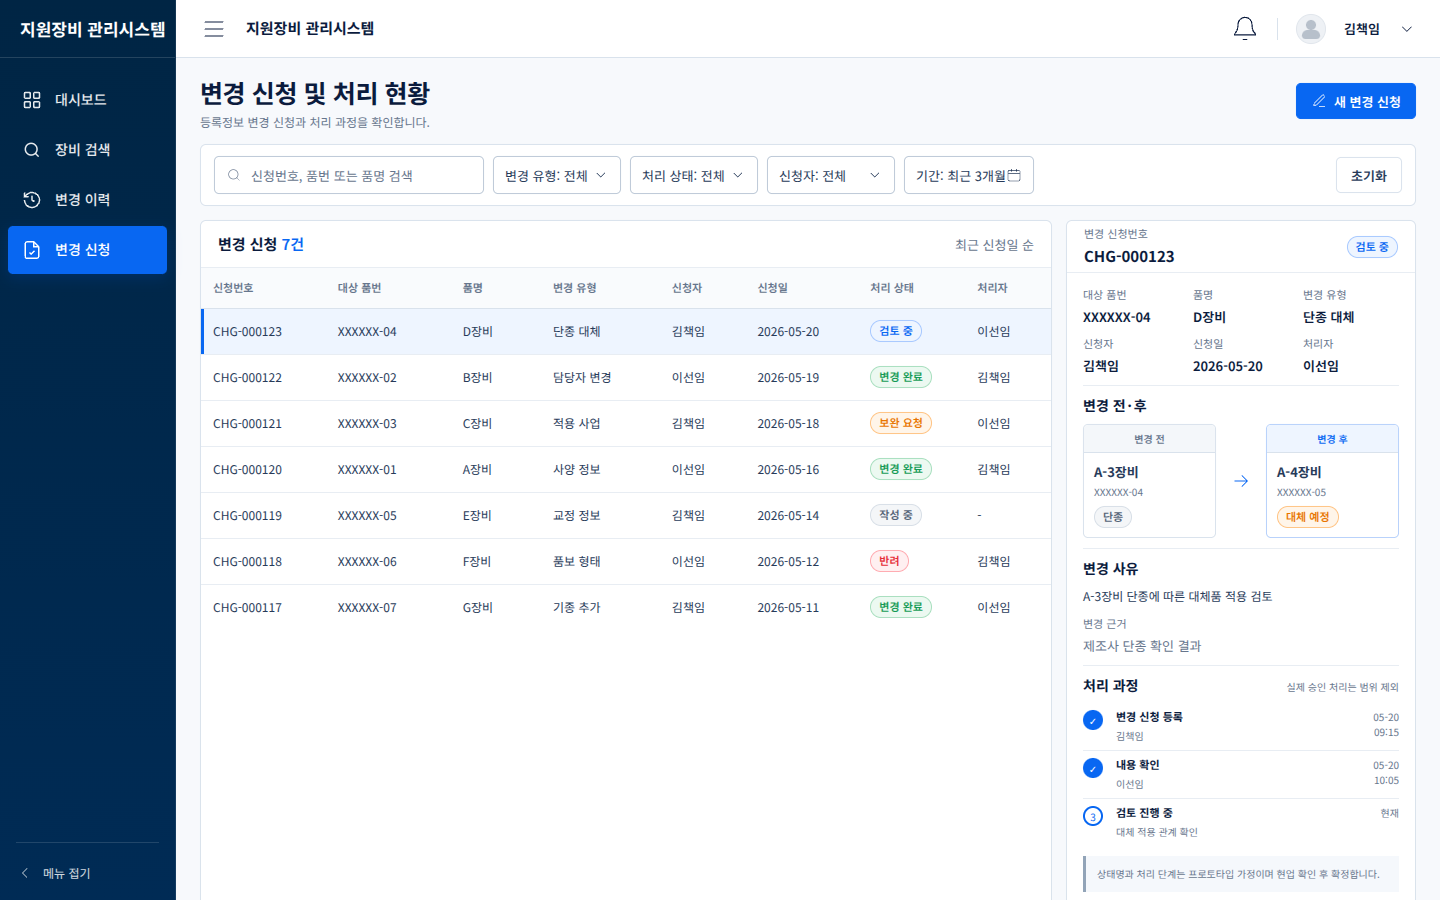
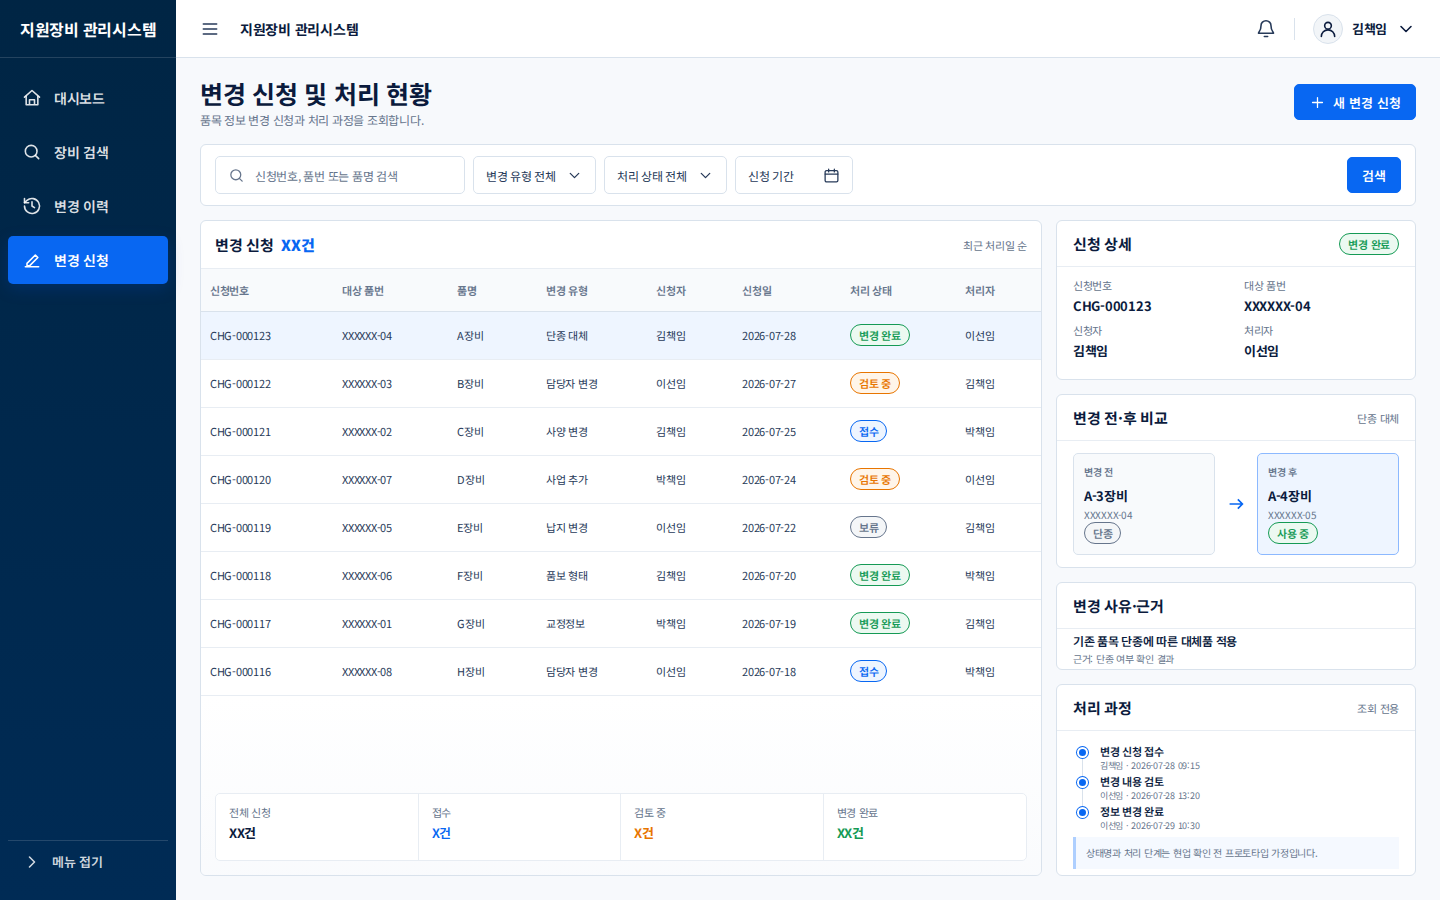
디자인: 추가 화면 정렬 및 영역 오류 수정

diff --git a/docs/design/mockup-qa.md b/docs/design/mockup-qa.md
@@ -1,16 +1,22 @@
-# 추가 정적 시안 검수 결과
+# 추가 정적 시안 재검수 결과
+
+> 2026-07-31 재검수: 기존 문서에는 세 화면이 통과한 것으로 기록돼 있었으나,
+> 실제 원본 이미지를 다시 확인한 결과 정렬 불균형과 내부 잘림이 발견됐다.
+> 기존 판정을 철회하고 정적 렌더러 재구성, 재렌더링, 육안 검수 및 DOM
+> 오버플로 검사를 수행한 결과를 아래에 기록한다.
 
 ## 1. 검수 대상
 
 | 화면 | 파일 | 최종 해상도 | 결과 |
 |---|---|---|---|
-| 장비 통합 상세 | `docs/mockups/extended/equipment-detail.png` | 1440×900 | 통과 |
-| 납품 일정 관리 | `docs/mockups/extended/delivery-schedule.png` | 1440×900 | 통과 |
-| 변경 신청 및 처리 현황 | `docs/mockups/extended/change-request.png` | 1440×900 | 통과 |
+| 장비 통합 상세 | `docs/mockups/extended/equipment-detail.png` | 1440×900 | 재검수 통과 |
+| 납품 일정 관리 | `docs/mockups/extended/delivery-schedule.png` | 1440×900 | 재검수 통과 |
+| 변경 신청 및 처리 현황 | `docs/mockups/extended/change-request.png` | 1440×900 | 재검수 통과 |
 
 ## 2. 제작 방식
 
-- 동일한 HTML·CSS 정적 렌더러와 디자인 토큰으로 세 화면을 제작했다.
+- 재현 가능한 정적 렌더러를 `tools/mockup-renderer/`에 추가하고 동일한
+  HTML·CSS 디자인 토큰으로 세 화면을 다시 제작했다.
 - 실제 React 애플리케이션 코드는 구현하지 않았다.
 - `Noto Sans KR Variable`을 렌더링 전용 한글 글꼴로 사용했다.
 - 아이콘은 Lucide 계열의 선형 SVG 스타일로 통일했다.
@@ -28,7 +34,8 @@
 | 메뉴 구성 | 대시보드, 장비 검색, 변경 이력, 변경 신청 |
 | 선택 메뉴 | 화면의 진입 맥락에 맞는 메뉴만 파란색으로 표시 |
 
-상단 헤더를 이미지로 잘라 상호 비교한 결과 기하 구조는 동일했다. 래스터 글꼴·아이콘 경계의 안티앨리어싱에서만 2픽셀 차이가 발생했으며 위치·크기 차이는 확인되지 않았다.
+브라우저 DOM 좌표를 측정한 결과 세 화면 모두 사이드바 `176×900`,
+상단 헤더 `1264×58`, 본문 프레임 `1264×842`로 일치했다.
 
 ## 4. 타이포그래피 검수
 
@@ -75,9 +82,33 @@
 - 실제 승인 기능을 구현하거나 승인 작업을 강조하지 않았다.
 - 상태명과 처리 단계가 프로토타입 가정임을 명시했다.
 
-## 7. 발견 및 수정한 문제
+## 7. 재검수에서 발견 및 수정한 문제
 
-### 1차 렌더링
+### 기존 결과의 문제
+
+- 검수 문서의 통과 판정과 달리 장비 상세의 설명문이 상단 요약 카드에
+  맞닿아 있었다.
+- 장비 상세의 주요 납지 세 번째 행과 대체 관계 안내문이 카드 경계에서
+  잘렸다.
+- 납품 일정의 우측 상세영역이 화면 하단에 붙었고 카드 내부 마지막 행과
+  가정 문구가 잘렸다.
+- 변경 신청의 우측 신청 상세, 변경 사유, 처리 과정 내용이 카드 높이를
+  초과했다.
+- 납품 일정과 변경 신청의 좌측 표는 공백이 과도한 반면 우측 정보는
+  지나치게 압축돼 좌우 정보 밀도가 불균형했다.
+
+### 재구성 및 수정
+
+- 제목·설명·요약영역 사이의 수직 간격을 다시 정의했다.
+- 모든 본문 카드의 마지막 좌표를 화면 하단에서 최소 24px 안쪽으로
+  이동했다.
+- 좌측 표의 남는 공간을 선택 항목 수량 요약과 상태 요약으로 사용했다.
+- 장비 상세의 우측 카드 높이와 조밀 행 토큰을 재배분했다.
+- 납품 일정과 변경 신청의 우측 카드별 내부 여백과 행 높이를 조정했다.
+- 화면별 임의 수정 대신 공통 렌더링 소스와 디자인 토큰으로 세 화면을
+  다시 생성했다.
+
+### 이전 제작 과정 기록
 
 - 문제: 한글 글꼴 패밀리 이름이 Fontsource 정의와 달라 한글이 네모 문자로 표시됐다.
 - 수정: 실제 Fontsource 패밀리인 `Noto Sans KR Variable`로 통일하고 세 화면을 다시 렌더링했다.
@@ -96,10 +127,21 @@
 - 문제: 변경 신청 상세의 처리 과정 마지막 단계가 화면 하단에서 잘렸다.
 - 수정: 상세 메타정보를 3열로 구성하고 비교·처리 과정의 여백을 줄였다.
 
-### 최종 렌더링
+### 최종 재렌더링
 
-- 세 화면을 다시 열어 텍스트, 카드 경계, 표, 배지 및 하단 영역을 확인했다.
-- 캔버스 밖으로 잘리거나 인접 컴포넌트를 침범하는 요소가 없음을 확인했다.
+- 세 화면을 원본 크기로 다시 열어 텍스트, 카드 경계, 표, 배지 및 하단
+  영역을 육안으로 확인했다.
+- 모든 카드에 대해 `scrollWidth ≤ clientWidth`,
+  `scrollHeight ≤ clientHeight`인지 자동 검사했다.
+- 한글 글꼴의 로딩 상태뿐 아니라 `지원장비 김책임` 문자열에 대한 실제
+  한글 글리프 사용 가능 여부를 검사했다.
+- 화면 전체 요소의 경계 좌표를 검사해 1440×900 캔버스 밖으로 나간
+  요소가 없음을 확인했다.
+- 세 화면 모두 카드 내부 오버플로 0건, 캔버스 이탈 0건이었다.
+- `기준정보 관리`, `사원`, `대리`, `과장` 포함 여부를 검사했으며 모두
+  0건이었다.
+- 독립 렌더러 구성 중 한글 글리프가 빠진 글꼴 패키지 버전을 발견해
+  전체 한글 Subset이 포함된 버전으로 고정하고 세 이미지를 다시 생성했다.
 
 ## 8. 남아 있는 가정
 
@@ -111,4 +153,5 @@
 
 ## 9. 최종 판정
 
-세 화면 모두 해상도, 공통 프레임, 한글 표시, 색상, 컴포넌트, 금지항목 및 내용 검수를 통과했다.
+세 화면 모두 해상도, 공통 프레임, 한글 표시, 색상, 컴포넌트, 금지항목,
+카드 내부 오버플로 및 캔버스 경계 검사를 통과했다.
